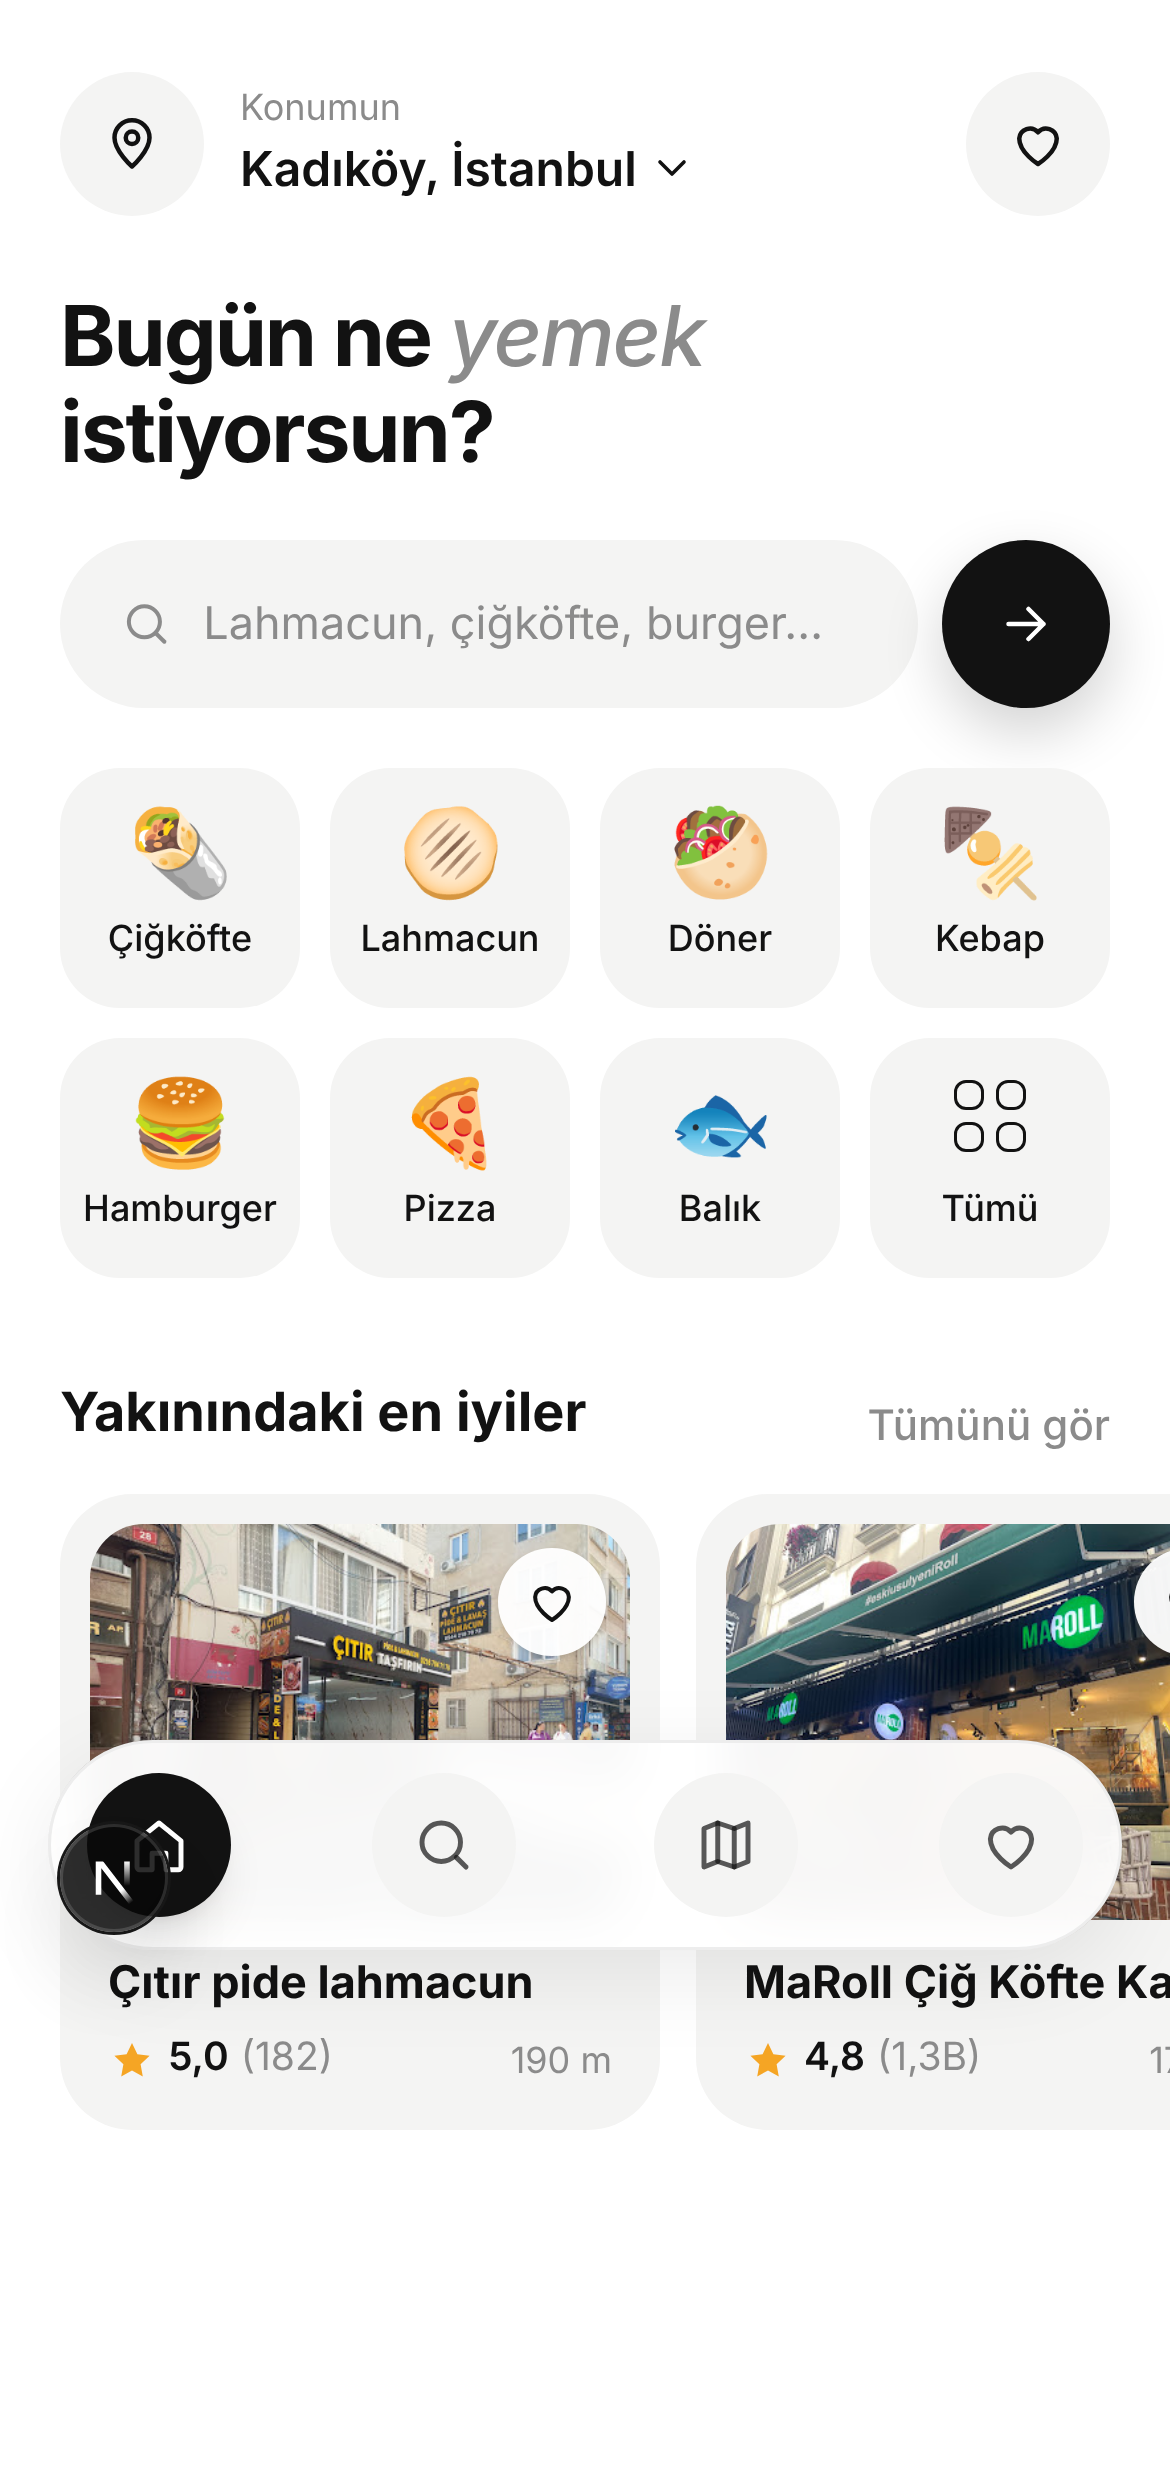
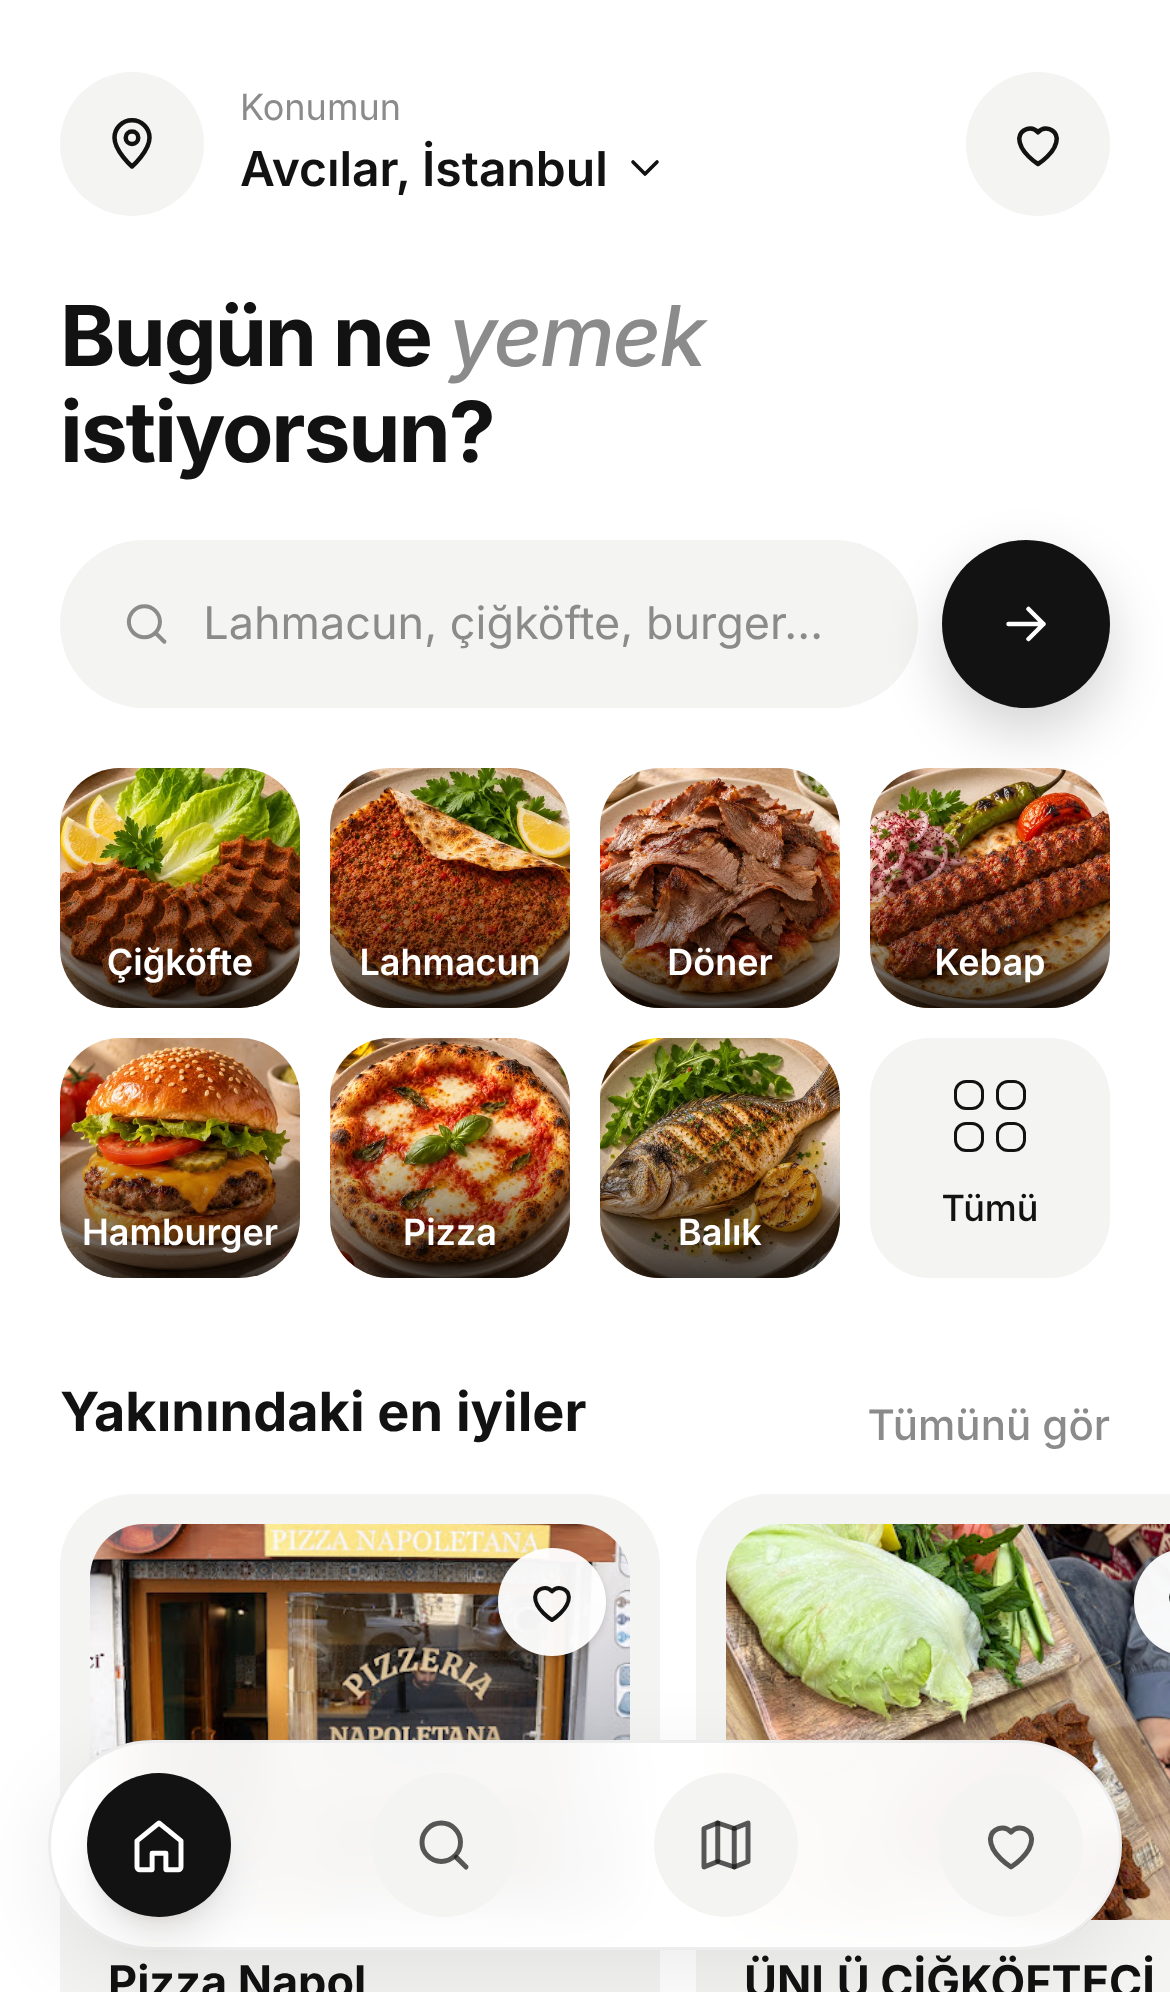
feat: kategori fotoğrafları
7 popüler yemek için fotoğraflı kutucuklar (webp, 400px, her biri <55 KB).
Görseli olmayan yemekler emojiyle kalır; yükleme ekranında da yemeğin fotoğrafı gösterilir.

Claude-Session: https://claude.ai/code/session_01UHYbEmmqLD7MbuJHBe4i2X

diff --git a/src/components/CategoryGrid.tsx b/src/components/CategoryGrid.tsx
@@ -1,11 +1,40 @@
 "use client";
+/* eslint-disable @next/next/no-img-element */
 import Link from "next/link";
 import { useState } from "react";
-import { FOODS } from "@/config/foods";
+import { FOODS, type Food } from "@/config/foods";
 import { Sheet } from "./Sheet";
 
-const tile =
-  "flex aspect-square flex-col items-center justify-center gap-1.5 rounded-[20px] bg-canvas text-center transition active:scale-95";
+const base = "relative flex aspect-square flex-col items-center justify-center gap-1.5 overflow-hidden rounded-[20px] bg-canvas text-center transition active:scale-95";
+
+/** Photo tile: the photo fills the tile, the name sits on a dark gradient at the bottom. Without a photo: emoji + name. */
+function FoodTile({ f, active, small = false, onClick }: { f: Food; active?: boolean; small?: boolean; onClick?: () => void }) {
+  const label = small ? "text-[11px] leading-tight" : "text-[12px]";
+  return (
+    <Link
+      href={`/ara?food=${f.slug}`}
+      onClick={onClick}
+      aria-current={active ? "true" : undefined}
+      className={`${base} ${active ? "ring-2 ring-ink ring-offset-2" : ""} ${!f.image && active ? "bg-ink text-white" : ""}`}
+    >
+      {f.image ? (
+        <>
+          <img src={f.image} alt="" loading="lazy" className="absolute inset-0 size-full object-cover" />
+          <span className={`absolute inset-x-0 bottom-0 bg-gradient-to-t from-black/75 via-black/35 to-transparent px-1 pb-1.5 pt-6 font-semibold text-white ${label}`}>
+            {f.name}
+          </span>
+        </>
+      ) : (
+        <>
+          <span className={`${small ? "text-[26px]" : "text-[28px]"} leading-none`} aria-hidden="true">
+            {f.emoji}
+          </span>
+          <span className={`px-1 font-medium ${label}`}>{f.name}</span>
+        </>
+      )}
+    </Link>
+  );
+}
 
 export function CategoryGrid({ active }: { active?: string }) {
   const [all, setAll] = useState(false);
@@ -15,19 +44,12 @@ export function CategoryGrid({ active }: { active?: string }) {
       <ul className="grid grid-cols-4 gap-2.5">
         {popular.map((f) => (
           <li key={f.slug}>
-            <Link
-              href={`/ara?food=${f.slug}`}
-              className={`${tile} ${active === f.slug ? "bg-ink text-white" : ""}`}
-              aria-current={active === f.slug ? "true" : undefined}
-            >
-              <span className="text-[28px] leading-none">{f.emoji}</span>
-              <span className="text-[12px] font-medium">{f.name}</span>
-            </Link>
+            <FoodTile f={f} active={active === f.slug} />
           </li>
         ))}
         <li>
-          <button onClick={() => setAll(true)} className={`${tile} w-full`}>
-            <span className="grid grid-cols-2 gap-1">
+          <button onClick={() => setAll(true)} className={`${base} w-full`}>
+            <span className="grid grid-cols-2 gap-1" aria-hidden="true">
               {[0, 1, 2, 3].map((i) => (
                 <span key={i} className="size-2.5 rounded-[4px] border-[1.6px] border-ink" />
               ))}
@@ -40,10 +62,7 @@ export function CategoryGrid({ active }: { active?: string }) {
         <ul className="grid grid-cols-4 gap-2.5">
           {FOODS.map((f) => (
             <li key={f.slug}>
-              <Link href={`/ara?food=${f.slug}`} className={tile} onClick={() => setAll(false)}>
-                <span className="text-[26px] leading-none">{f.emoji}</span>
-                <span className="px-1 text-[11px] font-medium leading-tight">{f.name}</span>
-              </Link>
+              <FoodTile f={f} small onClick={() => setAll(false)} />
             </li>
           ))}
         </ul>

diff --git a/src/config/foods.ts b/src/config/foods.ts
@@ -7,22 +7,24 @@ export type Food = {
   /** normalizeTr + boşluksuz eşleşme kökleri */
   keywords: string[];
   popular: boolean;
+  /** Category photo (public/categories/); without one the emoji is shown */
+  image?: string;
 };
 
 export const FOODS: Food[] = [
-  { slug: "cigkofte", name: "Çiğköfte", emoji: "🌯", query: "çiğ köfte", keywords: ["cigkofte"], popular: true },
-  { slug: "lahmacun", name: "Lahmacun", emoji: "🫓", query: "lahmacun", keywords: ["lahmacun"], popular: true },
+  { slug: "cigkofte", name: "Çiğköfte", emoji: "🌯", query: "çiğ köfte", keywords: ["cigkofte"], popular: true, image: "/categories/cigkofte.webp" },
+  { slug: "lahmacun", name: "Lahmacun", emoji: "🫓", query: "lahmacun", keywords: ["lahmacun"], popular: true, image: "/categories/lahmacun.webp" },
   { slug: "pide", name: "Pide", emoji: "🥖", query: "pide", keywords: ["pide"], popular: false },
-  { slug: "doner", name: "Döner", emoji: "🥙", query: "döner", keywords: ["doner", "durum"], popular: true },
-  { slug: "kebap", name: "Kebap", emoji: "🍢", query: "kebap", keywords: ["kebap", "kebab", "adana", "urfa", "ocakbasi"], popular: true },
+  { slug: "doner", name: "Döner", emoji: "🥙", query: "döner", keywords: ["doner", "durum"], popular: true, image: "/categories/doner.webp" },
+  { slug: "kebap", name: "Kebap", emoji: "🍢", query: "kebap", keywords: ["kebap", "kebab", "adana", "urfa", "ocakbasi"], popular: true, image: "/categories/kebap.webp" },
   { slug: "iskender", name: "İskender", emoji: "🍖", query: "iskender", keywords: ["iskender"], popular: false },
   { slug: "kofte", name: "Köfte", emoji: "🧆", query: "köfteci", keywords: ["kofte"], popular: false },
-  { slug: "hamburger", name: "Hamburger", emoji: "🍔", query: "hamburger", keywords: ["hamburger", "burger"], popular: true },
-  { slug: "pizza", name: "Pizza", emoji: "🍕", query: "pizza", keywords: ["pizza", "pizzeria"], popular: true },
+  { slug: "hamburger", name: "Hamburger", emoji: "🍔", query: "hamburger", keywords: ["hamburger", "burger"], popular: true, image: "/categories/hamburger.webp" },
+  { slug: "pizza", name: "Pizza", emoji: "🍕", query: "pizza", keywords: ["pizza", "pizzeria"], popular: true, image: "/categories/pizza.webp" },
   { slug: "tantuni", name: "Tantuni", emoji: "🌮", query: "tantuni", keywords: ["tantuni"], popular: false },
   { slug: "kokorec", name: "Kokoreç", emoji: "🥪", query: "kokoreç", keywords: ["kokorec"], popular: false },
   { slug: "midye", name: "Midye", emoji: "🦪", query: "midye", keywords: ["midye"], popular: false },
-  { slug: "balik", name: "Balık", emoji: "🐟", query: "balık restoranı", keywords: ["balik", "deniz urunleri", "meyhane"], popular: true },
+  { slug: "balik", name: "Balık", emoji: "🐟", query: "balık restoranı", keywords: ["balik", "deniz urunleri", "meyhane"], popular: true, image: "/categories/balik.webp" },
   { slug: "manti", name: "Mantı", emoji: "🥟", query: "mantı", keywords: ["manti"], popular: false },
   { slug: "esnaf-lokantasi", name: "Esnaf Lokantası", emoji: "🍲", query: "esnaf lokantası", keywords: ["esnaf lokantasi", "ev yemek", "lokanta"], popular: false },
   { slug: "kahvalti", name: "Kahvaltı", emoji: "🍳", query: "kahvaltı", keywords: ["kahvalti", "serpme"], popular: false },

diff --git a/src/components/LoadingFinder.tsx b/src/components/LoadingFinder.tsx
@@ -27,7 +27,12 @@ export function LoadingFinder({ food, inline = false }: { food?: Food | null; in
         <span className="absolute inset-0 rounded-full bg-accent/25 [animation:lr-pulse_2s_ease-out_infinite]" />
         <span className="absolute inset-0 rounded-full bg-accent/20 [animation:lr-pulse_2s_ease-out_1s_infinite]" />
         <span className="relative flex size-24 items-center justify-center rounded-full bg-accent text-5xl shadow-[0_12px_30px_rgba(232,69,44,0.35)]">
-          <span className="[animation:lr-bounce_1.6s_ease-in-out_infinite]">{food?.emoji ?? "🍽"}</span>
+          {food?.image ? (
+            // eslint-disable-next-line @next/next/no-img-element
+            <img src={food.image} alt="" className="size-[84px] rounded-full object-cover [animation:lr-bounce_1.6s_ease-in-out_infinite]" />
+          ) : (
+            <span className="[animation:lr-bounce_1.6s_ease-in-out_infinite]">{food?.emoji ?? "🍽"}</span>
+          )}
         </span>
       </div>
       <h2 className="max-w-[18ch] text-[22px] font-bold leading-tight">{LOADING_TITLE}</h2>

diff --git a/e2e/categories.spec.ts b/e2e/categories.spec.ts
@@ -1,0 +1,20 @@
+import { test, expect } from "@playwright/test";
+
+test("ana sayfadaki kategori kutucukları fotoğraflı ve tıklanabilir", async ({ page }) => {
+  await page.goto("/");
+  const tile = page.getByRole("link", { name: "Lahmacun" });
+  const img = tile.locator("img");
+  await expect(img).toHaveAttribute("src", "/categories/lahmacun.webp");
+  await expect.poll(() => img.evaluate((el: HTMLImageElement) => el.complete && el.naturalWidth)).toBeGreaterThan(0);
+  await expect(page.locator(".grid img[src^='/categories/']")).toHaveCount(7);
+  await tile.click();
+  await expect(page).toHaveURL(/\/ara\?food=lahmacun/);
+});
+
+test("'Tümü' listesinde görseli olmayan yemekler emojiyle görünür", async ({ page }) => {
+  await page.goto("/");
+  await page.getByRole("button", { name: "Tümü" }).click();
+  const sheet = page.getByRole("dialog");
+  await expect(sheet.getByRole("link", { name: /Mantı/ })).toContainText("🥟");
+  await expect(sheet.locator("img[src='/categories/pizza.webp']")).toHaveCount(1);
+});

diff --git a/src/config/foods.test.ts b/src/config/foods.test.ts
@@ -1,0 +1,18 @@
+import { describe, it, expect } from "vitest";
+import { existsSync, statSync } from "node:fs";
+import { join } from "node:path";
+import { FOODS } from "./foods";
+
+describe("kategori görselleri", () => {
+  it("ana sayfadaki 7 popüler yemeğin görseli var ve dosyalar küçük", () => {
+    for (const f of FOODS.filter((x) => x.popular)) {
+      expect(f.image, f.slug).toBe(`/categories/${f.slug}.webp`);
+      const file = join(__dirname, "../../public", f.image!);
+      expect(existsSync(file), file).toBe(true);
+      expect(statSync(file).size).toBeLessThan(80_000);
+    }
+  });
+  it("görseli olmayan yemekler emoji ile kalır", () => {
+    expect(FOODS.find((f) => f.slug === "manti")!.image).toBeUndefined();
+  });
+});
